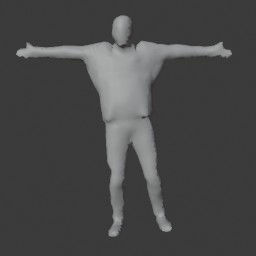
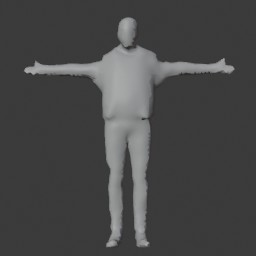
feet and arms ok

Changed region(s): [[0.0625, 0.0625, 0.9375, 0.4375], [0.4062, 0.4375, 0.6875, 0.9688], [0.4062, 0.4688, 0.4375, 0.625]]

diff --git a/_data/3d_data/pedestrian_animations/blender_normalize_skel.py b/_data/3d_data/pedestrian_animations/blender_normalize_skel.py
@@ -647,15 +647,15 @@ def stage_2_align_hands_feet_head(target_armature, target_bone_mapping, ref_key_
             [target_key_bones.get('right_arm'), target_key_bones.get('right_forearm'), target_key_bones.get('right_wrist')],
             [ref_key_bones.get('right_arm'), ref_key_bones.get('right_forearm'), ref_key_bones.get('right_wrist')]
         ),
-        # Left Leg: [Thigh, Calf, Foot]
+        # Left Leg: [Hip, Knee, Ankle, Toes]
         (
-            [target_key_bones.get('left_hip'), target_key_bones.get('left_knee'), target_key_bones.get('left_foot_child') or target_key_bones.get('left_foot')],
-            [ref_key_bones.get('left_hip'), ref_key_bones.get('left_knee'), ref_key_bones.get('left_foot')]
+            [target_key_bones.get('left_hip'), target_key_bones.get('left_knee'), target_key_bones.get('left_foot'), target_key_bones.get('left_foot_child')],
+            [ref_key_bones.get('left_hip'), ref_key_bones.get('left_knee'), ref_key_bones.get('left_foot'), 'ball_l']
         ),
-        # Right Leg: [Thigh, Calf, Foot]
+        # Right Leg: [Hip, Knee, Ankle, Toes]
         (
-            [target_key_bones.get('right_hip'), target_key_bones.get('right_knee'), target_key_bones.get('right_foot_child') or target_key_bones.get('right_foot')],
-            [ref_key_bones.get('right_hip'), ref_key_bones.get('right_knee'), ref_key_bones.get('right_foot')]
+            [target_key_bones.get('right_hip'), target_key_bones.get('right_knee'), target_key_bones.get('right_foot'), target_key_bones.get('right_foot_child')],
+            [ref_key_bones.get('right_hip'), ref_key_bones.get('right_knee'), ref_key_bones.get('right_foot'), 'ball_r']
         ),
         # Neck: [Neck]
         (
@@ -673,8 +673,8 @@ def stage_2_align_hands_feet_head(target_armature, target_bone_mapping, ref_key_
         pb.matrix_basis = mathutils.Matrix.Identity(4)
     bpy.context.view_layer.update()
 
-    # Align bone chains top-down using segment vector matching (3 convergence passes)
-    for _pass in range(3):
+    # Align bone chains top-down using segment vector matching (1 clean top-down pass)
+    for _pass in range(1):
         for target_chain, ref_chain in category_pairs:
             t_chain = [b for b in target_chain if b]
             r_chain = [b for b in ref_chain if b]
@@ -698,11 +698,7 @@ def stage_2_align_hands_feet_head(target_armature, target_bone_mapping, ref_key_
                 
                 pb = target_armature.pose.bones.get(t_name)
                 if pb:
-                    # If t_name is a child bone whose parent is an intermediate bone (e.g. bone_22 for bone_23), apply rotation to parent
                     target_pb = pb
-                    if pb.parent and pb.parent.name not in t_chain and pb.parent.name != target_armature.name:
-                        target_pb = pb.parent
-                        
                     loc, rot, scale = target_pb.matrix.decompose()
                     q_rot = Q
                     new_rot = q_rot @ rot
@@ -714,41 +710,86 @@ def stage_2_align_hands_feet_head(target_armature, target_bone_mapping, ref_key_
     print("Stage 2 vector orientation alignment complete.")
     return target_bone_mapping
 
+def print_global_joint_coordinates(title, target_armature, target_key_bones, ref_armature=None, ref_key_bones=None):
+    print(f"\n=================== GLOBAL JOINT COORDINATES: {title} ===================")
+    
+    # Key joints to output: elbow, knee, heel (ankle), wrist for left and right
+    joint_specs = [
+        ('Left Elbow', 'left_forearm', 'lowerarm_l'),
+        ('Right Elbow', 'right_forearm', 'lowerarm_r'),
+        ('Left Wrist', 'left_wrist', 'hand_l'),
+        ('Right Wrist', 'right_wrist', 'hand_r'),
+        ('Left Knee', 'left_knee', 'calf_l'),
+        ('Right Knee', 'right_knee', 'calf_r'),
+        ('Left Heel/Ankle', 'left_foot', 'foot_l'),
+        ('Right Heel/Ankle', 'right_foot', 'foot_r'),
+    ]
+    
+    for label, target_key, ref_key in joint_specs:
+        t_bone_name = target_key_bones.get(target_key)
+        t_pos_str = "N/A"
+        if t_bone_name:
+            # Check pose bone first, then fallback to rest bone
+            pb = target_armature.pose.bones.get(t_bone_name) if target_armature.pose else None
+            if pb:
+                w_pos = target_armature.matrix_world @ pb.head
+            else:
+                b = target_armature.data.bones.get(t_bone_name)
+                w_pos = target_armature.matrix_world @ b.head_local if b else None
+            if w_pos:
+                t_pos_str = f"({w_pos.x:+.4f}, {w_pos.y:+.4f}, {w_pos.z:+.4f})"
+                
+        r_pos_str = ""
+        try:
+            if ref_armature and hasattr(ref_armature, "matrix_world"):
+                r_bone_name = ref_key_bones.get(ref_key) if ref_key_bones else ref_key
+                rb = ref_armature.data.bones.get(r_bone_name) if r_bone_name else None
+                if rb:
+                    r_w_pos = ref_armature.matrix_world @ rb.head_local
+                    r_pos_str = f" | Ref ({r_bone_name}): ({r_w_pos.x:+.4f}, {r_w_pos.y:+.4f}, {r_w_pos.z:+.4f})"
+        except Exception:
+            pass
+                
+        print(f"  {label:<16} (Target: {t_bone_name or 'N/A'}): {t_pos_str}{r_pos_str}")
+    print("=========================================================================\n")
+
+
 def render_stage2_preview(output_jpg_path):
-    print(f"Rendering Stage 2 256x256 preview image to: {output_jpg_path}")
+    output_x_jpg_path = output_jpg_path.replace(".jpg", "_x.jpg")
+    print(f"Rendering Stage 2 256x256 preview images to:\n  Front: {output_jpg_path}\n  Side:  {output_x_jpg_path}")
+    
     scene = bpy.context.scene
     scene.render.engine = 'BLENDER_WORKBENCH'
-    
-    # Configure resolution
     scene.render.resolution_x = 256
     scene.render.resolution_y = 256
     scene.render.resolution_percentage = 100
     scene.render.image_settings.file_format = 'JPEG'
-    scene.render.filepath = output_jpg_path
-    
-    # Add light if needed
-    light_data = bpy.data.lights.new(name="PreviewLight", type='SUN')
-    light_object = bpy.data.objects.new(name="PreviewLight", object_data=light_data)
-    scene.collection.objects.link(light_object)
-    light_object.location = (0, -5, 5)
-    light_object.rotation_euler = (0.7854, 0, 0)
-    
-    # Set camera
-    camera_data = bpy.data.cameras.new(name='PreviewCamera')
-    camera_object = bpy.data.objects.new('PreviewCamera', camera_data)
-    scene.collection.objects.link(camera_object)
-    scene.camera = camera_object
-    
-    # Position camera to look at center of model (Z=1.0, Y=-3.0, X=0) looking towards +Y
-    camera_object.location = mathutils.Vector((0.0, -3.2, 1.0))
-    camera_object.rotation_euler = mathutils.Euler((1.5708, 0, 0), 'XYZ')
     
     if hasattr(scene, 'display'):
         scene.display.shading.type = 'SOLID'
         scene.display.shading.light = 'STUDIO'
         
+    # Camera 1: Front view (Y = -3.2, Z = 1.0 looking towards +Y)
+    cam_front = bpy.data.objects.new('CamFront', bpy.data.cameras.new('CamFront'))
+    scene.collection.objects.link(cam_front)
+    cam_front.location = mathutils.Vector((0.0, -3.2, 1.0))
+    cam_front.rotation_euler = mathutils.Euler((1.5708, 0, 0), 'XYZ')
+    
+    scene.camera = cam_front
+    scene.render.filepath = output_jpg_path
     bpy.ops.render.render(write_still=True)
-    print("Stage 2 preview render complete.")
+    
+    # Camera 2: Side view from model's right side (X = -3.2, Y = 0, Z = 1.0 looking towards +X)
+    cam_side = bpy.data.objects.new('CamSide', bpy.data.cameras.new('CamSide'))
+    scene.collection.objects.link(cam_side)
+    cam_side.location = mathutils.Vector((-3.2, 0.0, 1.0))
+    cam_side.rotation_euler = mathutils.Euler((1.5708, 0, -1.5708), 'XYZ')
+    
+    scene.camera = cam_side
+    scene.render.filepath = output_x_jpg_path
+    bpy.ops.render.render(write_still=True)
+    
+    print("Stage 2 preview renders complete.")
 
 def stage_3_apply_animations(target_armature, target_bone_mapping, ref_key_bones, ref_actions):
     print("Executing Stage 3: Applying and retargeting animations...")
@@ -879,8 +920,8 @@ def main():
     ref_categories = [
         [ref_key_bones.get('left_arm'), ref_key_bones.get('left_forearm'), ref_key_bones.get('left_wrist')],
         [ref_key_bones.get('right_arm'), ref_key_bones.get('right_forearm'), ref_key_bones.get('right_wrist')],
-        [ref_key_bones.get('left_hip'), ref_key_bones.get('left_knee'), ref_key_bones.get('left_foot')],
-        [ref_key_bones.get('right_hip'), ref_key_bones.get('right_knee'), ref_key_bones.get('right_foot')],
+        [ref_key_bones.get('left_hip'), ref_key_bones.get('left_knee'), ref_key_bones.get('left_foot'), 'ball_l'],
+        [ref_key_bones.get('right_hip'), ref_key_bones.get('right_knee'), ref_key_bones.get('right_foot'), 'ball_r'],
         [ref_key_bones.get('neck'), 'Head']
     ]
     
@@ -943,6 +984,7 @@ def main():
     
     # Print debug data BEFORE Stage 2 alignment
     print_bone_debug_data("BEFORE STAGE 2 ALIGNMENT", target_armature, target_key_bones, ref_debug_info)
+    print_global_joint_coordinates("BEFORE STAGE 2 ALIGNMENT", target_armature, target_key_bones, ref_armature, ref_key_bones)
     
     # 3. Process Stage 2 (Align hand/foot/neck orientations)
     target_bone_mapping = stage_2_align_hands_feet_head(target_armature, target_bone_mapping, ref_key_bones, ref_segment_dirs)
@@ -952,6 +994,7 @@ def main():
     
     # Print debug data AFTER Stage 2 alignment
     print_bone_debug_data("AFTER STAGE 2 ALIGNMENT", target_armature, target_key_bones_after, ref_debug_info)
+    print_global_joint_coordinates("AFTER STAGE 2 ALIGNMENT", target_armature, target_key_bones_after, ref_armature, ref_key_bones)
     
     # Export Stage 2 GLB
     print(f"Exporting Stage 2 model to: {output_stage_2_path}")